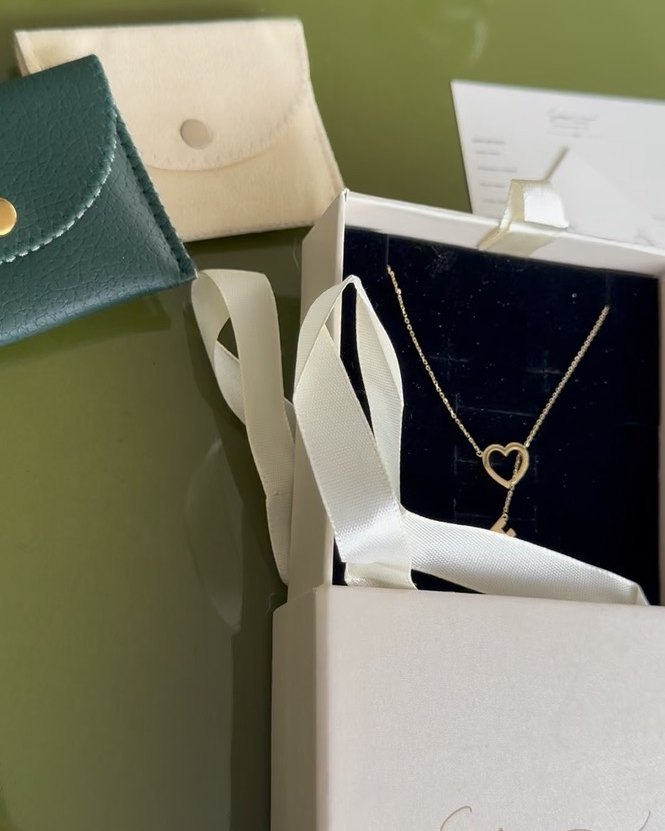
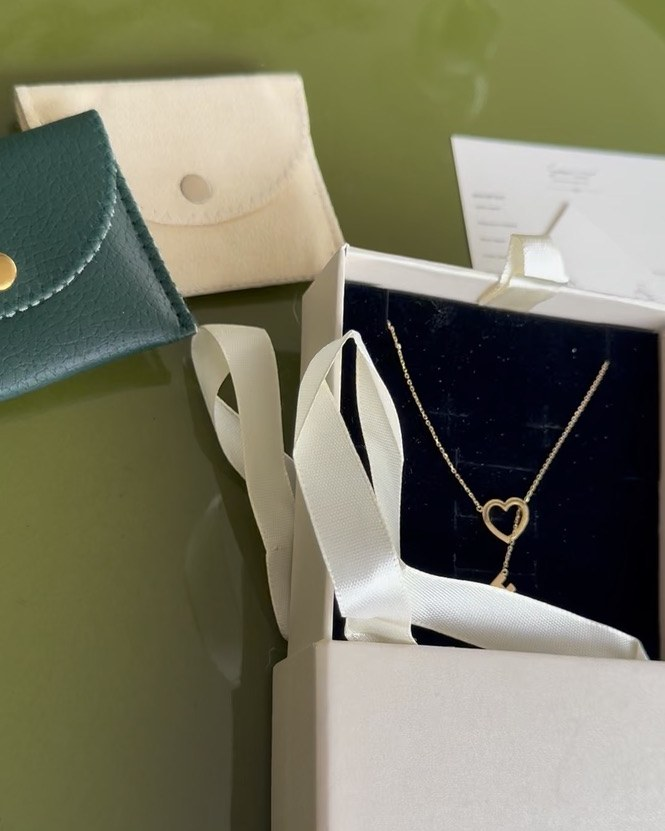
Home: Most Loved, straight gift-box photo, gold medallion, emerald craft section (not yet published)
Renames New & Loved to Most Loved; straightens the gift-box photo and makes
it larger; adds a gold medallion where the gift guide meets the community
panel; removes the Let's talk jewelry banner; puts From Sketch to Gold on an
emerald green background; reframes the Made to be remembered photo with
the story card beside it.

Claude-Session: https://claude.ai/code/session_01SdsNcmoHKjJHgDuZTWPX6s

diff --git a/css/style.css b/css/style.css
@@ -2076,3 +2076,31 @@ legend {
 .section-head.section-head-left { max-width: none; margin-left: 0; margin-right: 0; }
 .section-head-left p { max-width: 560px; }
 .community-panel .newsletter-row input[type=email]::placeholder { color: #8a8270; opacity: 1; }
+
+/* Made to be remembered: the unboxing photo as a clean framed image, the story card tucked at its corner */
+.home .remember .split-media.remember-media { display: block; padding: 0 0 48px; max-width: 520px; }
+.home .remember-media > img.remember-box { width: 82%; margin: 0; aspect-ratio: 4 / 5; object-fit: cover; filter: none; box-shadow: 0 18px 40px rgba(27, 58, 43, 0.14); }
+.home .remember-media img.remember-card { right: 0; bottom: 0; width: 40%; transform: rotate(5deg); }
+
+/* Gift guide: bigger, straight box photo */
+.gift-panel { grid-template-columns: 1.1fr 1fr; gap: 28px; }
+.gift-panel-img { filter: drop-shadow(0 16px 20px rgba(27, 58, 43, 0.18)); }
+
+/* Gold medallion where the gift guide meets the community panel */
+.gift-community-inner { position: relative; }
+.gift-medallion { position: absolute; left: 50%; top: 50%; transform: translate(-50%, -50%); z-index: 2; width: 74px; height: 74px; border-radius: 50%;
+  background: var(--gold); color: #f6f1e7; display: grid; place-items: center; box-shadow: 0 0 0 6px rgba(201, 162, 79, 0.25); }
+.gift-medallion svg { width: 34px; height: 34px; }
+@media (max-width: 900px) { .gift-medallion { top: auto; bottom: auto; position: relative; left: auto; transform: none; margin: -37px auto; } .gift-community-inner { display: flex; flex-direction: column; } }
+
+/* From Sketch to Gold on emerald */
+.home .craft { background: #0f4a37; }
+.home .craft .section-head h2 { color: #f6f1e7; }
+.home .craft .section-head p { color: #d9cfbd; }
+.home .craft .eyebrow { color: var(--gold); }
+.home .craft .craft-step h3 { color: #f6f1e7; }
+.home .craft .craft-step p { color: #d9cfbd; }
+.home .craft .craft-photo { background: #0b3a2b; }
+@media (max-width: 900px) { .gift-panel { grid-template-columns: 1fr; text-align: center; } .gift-panel-img { max-width: 340px; margin: 0 auto; } }
+.home .remember-media img.remember-card { width: 36%; right: -6%; bottom: 2%; }
+@media (max-width: 900px) { .home .remember-media img.remember-card { right: 0; } }

diff --git a/index.html b/index.html
@@ -260,8 +260,8 @@
 <section class="new-loved">
   <div class="container">
     <div class="section-head section-head-left reveal">
-      <span class="eyebrow">Featured Pieces</span>
-      <h2>New &amp; Loved</h2>
+      <span class="eyebrow">Our Favorites</span>
+      <h2>Most Loved</h2>
       <a class="section-link" href="shop.html#all">View all <span aria-hidden="true">&rarr;</span></a>
       <p>A small edit of favorites — delicate, wearable, made to layer and last.</p>
     </div>
@@ -428,14 +428,6 @@
   </div>
 </section>
 
-<section class="cta-banner">
-  <div class="container">
-    <span class="script">Let's talk jewelry</span>
-    <h2>Have a question about a piece, sizing, or a custom order?</h2>
-    <a href="mailto:customerservice@siaramjewelry.com?subject=Question" class="btn btn-outline">Email Us</a>
-  </div>
-</section>
-
 <section class="gift-community">
   <div class="gift-community-inner">
     <div class="gift-panel reveal">
@@ -453,6 +445,7 @@
         <a class="gift-panel-link" href="gift-voucher.html">Explore gift ideas <span aria-hidden="true">&rarr;</span></a>
       </div>
     </div>
+    <span class="gift-medallion" aria-hidden="true"><svg viewBox="0 0 24 24" fill="none" stroke="currentColor" stroke-width="1.2"><path d="M12 2l2.4 6.6L21 11l-6.6 2.4L12 20l-2.4-6.6L3 11l6.6-2.4L12 2z"/><circle cx="12" cy="11" r="1.6"/></svg></span>
     <div class="community-panel reveal">
       <span class="eyebrow">Stay Connected</span>
       <h2>Join Our Community</h2>
